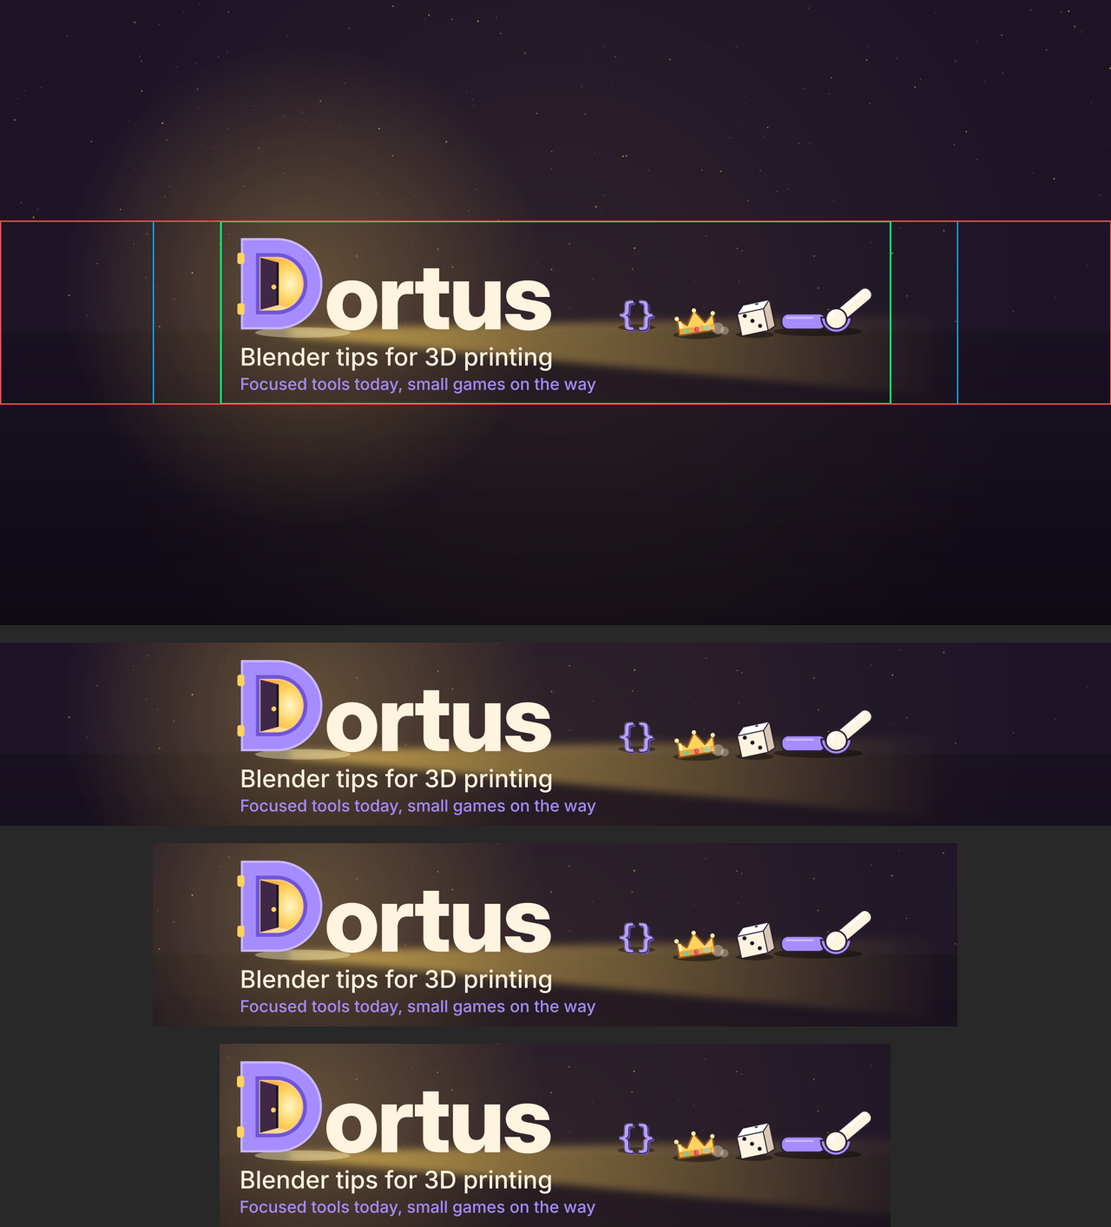
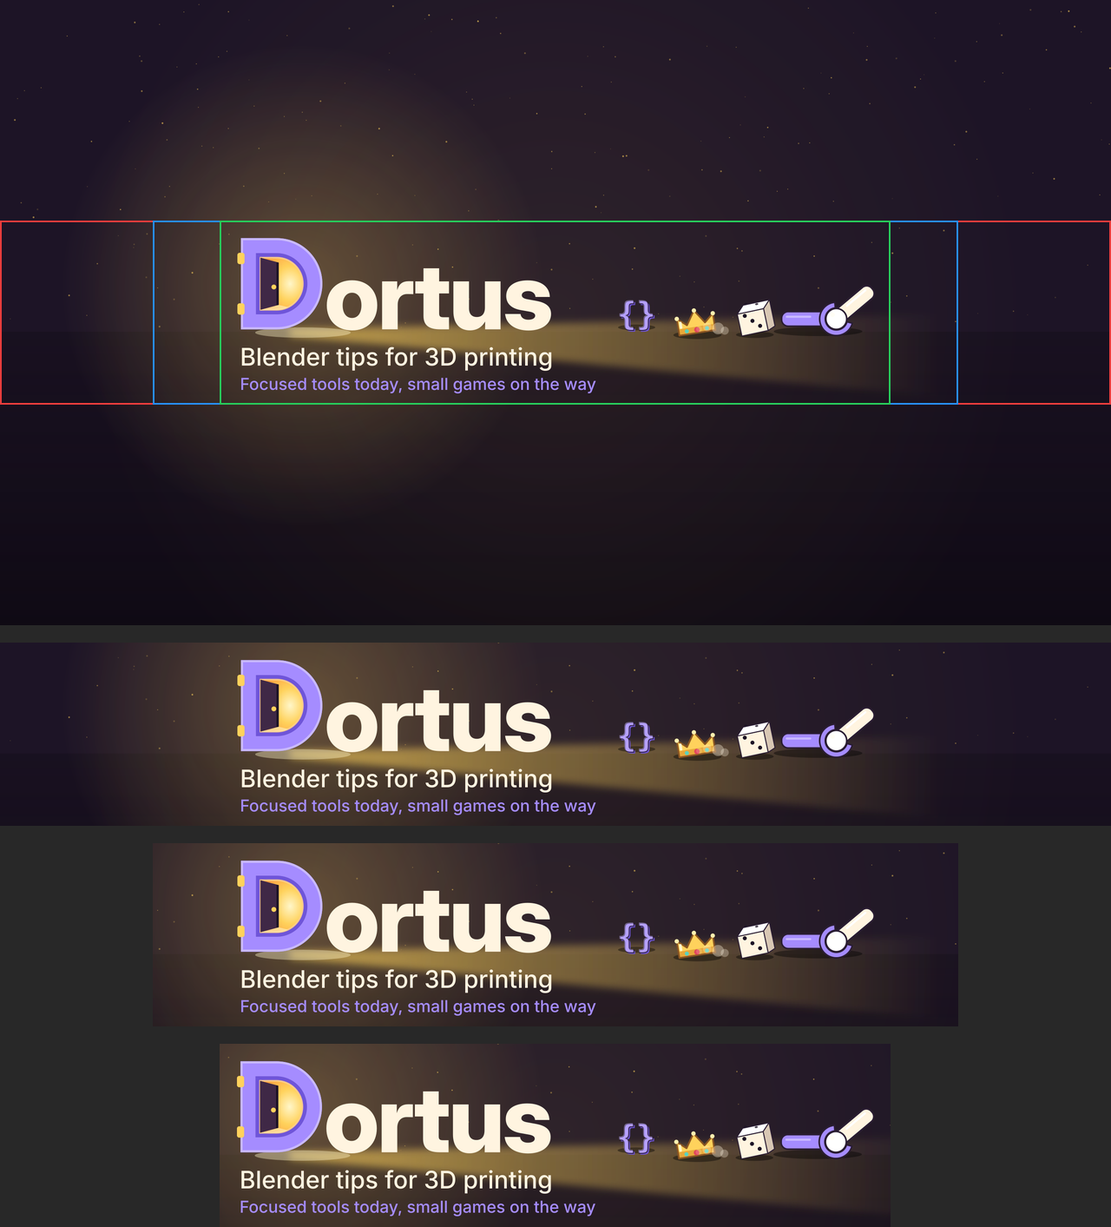
Chris run 59: kanaal @dortusstudio klaar voor de hoofdchat (Daan ja, arm als scharnier, watermerk donker vierkant)
Claude-Session: https://claude.ai/code/session_01RMWUyiz8EHRp2VCGLyE8Jd

diff --git a/commercie/filmpjes/kanaal/maak_kanaal.py b/commercie/filmpjes/kanaal/maak_kanaal.py
@@ -1,4 +1,4 @@
-"""Beelden voor het YouTube-kanaal Dortus (@dortusstudio). Chris, 16 nov 2026, run 58.
+"""Beelden voor het YouTube-kanaal Dortus (@dortusstudio). Chris, 16 nov 2026, run 58 (arm aangepast in run 59).
 Bouwt voort op het uniform van Mila (platformen/abel/merk/bron/maak_uniform.py): zelfde deur-D, kleuren,
 licht en spullen. Er komt alleen een kogelgewricht bij (Click Joints), want het kanaal gaat vooral over
 Blender-tips voor 3D-printen. Draai: python3 maak_kanaal.py  (schrijft in deze map)."""
@@ -14,21 +14,31 @@ VY0, VY1 = (H - 423) / 2, (H + 423) / 2        # 508.5 .. 931.5
 
 def gewricht(cx, cy, z):
     """Een geprinte arm met een kogelgewricht, zoals Click Joints hem maakt: onderarm (lila) plat op de vloer,
-    bovenarm (creme) buigt omhoog vanuit de kogel in de kom. cx, cy = midden van het gewricht."""
+    bovenarm (creme) buigt omhoog vanuit de kogel. cx, cy = midden van het gewricht.
+    Run 59, kan-punt van Daan (16 nov): de kom is een grote lila C die de witte kogel half omsluit, open naar
+    de bovenarm, en beide delen zijn even dik; zo lees je een scharnier en geen hendel. Geen tweede kogel."""
+    import math
     st = f'stroke="#2a1d33" stroke-width="{z*0.03:.1f}" stroke-linejoin="round"'
     r = z * 0.2                                                  # kogel
+    dik = z * 0.28                                               # dikte van beide armdelen
+    hoek = -40                                                   # bovenarm 40 graden omhoog
     uit = f'<ellipse cx="{cx-z*0.35:.1f}" cy="{cy+z*0.24:.1f}" rx="{z*0.85:.1f}" ry="{z*0.09:.1f}" fill="#000" fill-opacity="0.4"/>'
-    # bovenarm, 40 graden omhoog gebogen (achter de kom getekend)
-    uit += (f'<g transform="rotate(-40 {cx:.1f} {cy:.1f})">'
-            f'<rect x="{cx:.1f}" y="{cy-z*0.13:.1f}" width="{z*0.85:.1f}" height="{z*0.26:.1f}" rx="{z*0.12:.1f}" fill="{U.CREME}" {st}/>'
-            f'<path d="M{cx+z*0.25:.1f},{cy-z*0.06:.1f} H{cx+z*0.75:.1f}" stroke="#ffffff" stroke-width="{z*0.04:.1f}" stroke-linecap="round"/></g>'
-            f'<circle cx="{cx:.1f}" cy="{cy:.1f}" r="{r:.1f}" fill="{U.CREME}" {st}/>'
-            f'<circle cx="{cx-r*0.35:.1f}" cy="{cy-r*0.4:.1f}" r="{r*0.25:.1f}" fill="#ffffff"/>')
-    # onderarm met kom: de kom sluit om de onderkant van de kogel
-    uit += (f'<rect x="{cx-z*1.05:.1f}" y="{cy-z*0.1:.1f}" width="{z*0.85:.1f}" height="{z*0.3:.1f}" rx="{z*0.13:.1f}" fill="{U.LILA}" {st}/>'
-            f'<path d="M{cx-r*1.45:.1f},{cy-r*0.15:.1f} A{r*1.45:.1f},{r*1.45:.1f} 0 0 0 {cx+r*1.45:.1f},{cy-r*0.15:.1f} '
-            f'L{cx+r*1.05:.1f},{cy-r*0.1:.1f} A{r*1.05:.1f},{r*1.05:.1f} 0 0 1 {cx-r*1.05:.1f},{cy-r*0.1:.1f} Z" fill="{U.LILA}" {st}/>'
-            f'<path d="M{cx-z*0.95:.1f},{cy-z*0.02:.1f} H{cx-z*0.45:.1f}" stroke="#c9b9ff" stroke-width="{z*0.04:.1f}" stroke-linecap="round"/>')
+    # onderarm (achter de kom)
+    uit += (f'<rect x="{cx-z*1.05:.1f}" y="{cy-dik/2:.1f}" width="{z*0.85:.1f}" height="{dik:.1f}" rx="{dik*0.45:.1f}" fill="{U.LILA}" {st}/>'
+            f'<path d="M{cx-z*0.95:.1f},{cy-dik*0.15:.1f} H{cx-z*0.5:.1f}" stroke="#c9b9ff" stroke-width="{z*0.04:.1f}" stroke-linecap="round"/>')
+    # bovenarm, even dik, vanuit het midden van de kogel
+    uit += (f'<g transform="rotate({hoek} {cx:.1f} {cy:.1f})">'
+            f'<rect x="{cx:.1f}" y="{cy-dik/2:.1f}" width="{z*0.9:.1f}" height="{dik:.1f}" rx="{dik*0.45:.1f}" fill="{U.CREME}" {st}/>'
+            f'<path d="M{cx+z*0.32:.1f},{cy-dik*0.22:.1f} H{cx+z*0.78:.1f}" stroke="#ffffff" stroke-width="{z*0.04:.1f}" stroke-linecap="round"/></g>')
+    # kogel
+    uit += (f'<circle cx="{cx:.1f}" cy="{cy:.1f}" r="{r:.1f}" fill="#ffffff" {st}/>'
+            f'<circle cx="{cx-r*0.35:.1f}" cy="{cy-r*0.4:.1f}" r="{r*0.22:.1f}" fill="#fffdf5"/>')
+    # kom: lila C om de kogel, open naar de bovenarm (opening 2 x 55 graden)
+    R1, R0 = r * 1.6, r * 1.06
+    a1, a2 = math.radians(hoek + 55), math.radians(hoek - 55 + 360)
+    def pt(R, a): return f"{cx+R*math.cos(a):.1f},{cy+R*math.sin(a):.1f}"
+    uit += (f'<path d="M{pt(R1,a1)} A{R1:.1f},{R1:.1f} 0 1 1 {pt(R1,a2)} L{pt(R0,a2)} '
+            f'A{R0:.1f},{R0:.1f} 0 1 0 {pt(R0,a1)} Z" fill="{U.LILA}" {st}/>')
     return uit
 
 def banner():

diff --git a/commercie/filmpjes/kanaal.md b/commercie/filmpjes/kanaal.md
@@ -2,6 +2,8 @@
 
 Door Chris, 16 nov 2026, run 58. Opdracht: hoofdchat 16 nov 09:25 (`berichten/chris.md`). Daan keurt de beelden; daarna zet de hoofdchat alles erop in YouTube Studio. Niets hiervan vraagt een login van mij.
 
+**Stand 16 nov ±13:10 UTC (run 59): Daan zei ja (16 nov ±12:45 UTC, `berichten/chris.md`), klaar voor de hoofdchat.** Zijn kan-punt over de arm is verwerkt (zie deel 4), het watermerk blijft het donkere vierkant (zijn keuze). Brams klopt op "Try" bij dag 1 kwam al op 16 nov 06:20 (`berichten/bram.md`).
+
 **Stand (GEZIEN 16 nov ±11:50 UTC, curl op https://www.youtube.com/@dortusstudio):** kanaal heet "Dortus", beschrijving leeg, geen video's.
 
 ## Wat het kanaal is (keuze, met reden)
@@ -48,10 +50,10 @@ Alle bestanden in `commercie/filmpjes/kanaal/`, gemaakt met `maak_kanaal.py` op 
 | Bestand | Maat | Eis van YouTube (DERDEN: https://support.google.com/youtube/answer/10456525) | Uitkomst (GEZIEN) |
 |---|---|---|---|
 | `profielfoto-800.png` | 800 x 800 | JPG/GIF/BMP/PNG, max 15 MB, wordt getoond op 98 x 98 | 61 KB. De avatar v2 die Daan op 10 nov goedkeurde (`ontwerp/keuring-abel.md`), niet veranderd, alleen op 800 gezet. Rond op 176, 98, 48 en 24 px op wit en op zwart: `proef-profielfoto-rond.png`. |
-| `banner-2560x1440.png` | 2560 x 1440 | aanbevolen 2560 x 1440, min 2048 x 1152, 16:9, max 6 MB, geen rand of schaduw om het beeld; veilige zone 1235 x 338 op 2048, dus ±1544 x 423 op 2560 (gangbaar sjabloongetal 1546 x 423) | 0,4 MB (378 KB). Woordmerk, regels en spullen allemaal binnen 1546 x 423. Op computer, tablet, telefoon en tv: `proef-banner-overal.png` (groen = veilige zone/telefoon, blauw = tablet, rood = computer). |
-| `watermerk-300.png` | 300 x 300 | vierkant, min 150 x 150, onder 1 MB | 13 KB. De kleine D (`merkteken-klein.svg`), die leest beter op klein formaat. Instelling: "End of video" (laatste 15 s), zodat hij niet door de tips heen staat. |
+| `banner-2560x1440.png` | 2560 x 1440 | aanbevolen 2560 x 1440, min 2048 x 1152, 16:9, max 6 MB, geen rand of schaduw om het beeld; veilige zone 1235 x 338 op 2048, dus ±1544 x 423 op 2560 (gangbaar sjabloongetal 1546 x 423) | 0,4 MB. Woordmerk, regels en spullen allemaal binnen 1546 x 423. Op computer, tablet, telefoon en tv: `proef-banner-overal.png` (groen = veilige zone/telefoon, blauw = tablet, rood = computer). |
+| `watermerk-300.png` | 300 x 300 | vierkant, min 150 x 150, onder 1 MB | 13 KB. De kleine D (`merkteken-klein.svg`) op het donkere vierkant, die leest beter op klein formaat. Daan koos het donkere vierkant boven doorzichtig: Blender is grijs, een doorzichtige paarse D valt daarop weg; het vierkant geeft overal hetzelfde contrast en is hetzelfde vlak als de profielfoto. Instelling: "End of video" (laatste 15 s), zodat hij niet door de tips heen staat. |
 
-**De banner in woorden:** links het woordmerk Dortus; uit de deur-D valt warm licht naar rechts over de vloer, en daarin liggen accolades, een kroontje, een dobbelsteen en een geprinte arm met een kogelgewricht die omhoog buigt. Onder het woordmerk: **Blender tips for 3D printing**, met kleiner eronder *Focused tools today, small games on the way* (de goedgekeurde regel van het uniform; geen "we", geen spel als belofte van nu). Beide regels in Inter Medium (uniform). Geen tweede grote D naast het woordmerk (les uit Daans keuring 6 van de Steam-kop: twee keer dezelfde D).
+**De banner in woorden:** links het woordmerk Dortus; uit de deur-D valt warm licht naar rechts over de vloer, en daarin liggen accolades, een kroontje, een dobbelsteen en een geprinte arm met een kogelgewricht die omhoog buigt. **Arm aangepast in run 59** (kan-punt Daan: op banner-grootte las hij als hendel of lucifer): de kom is nu een grote lila C die de witte kogel half omsluit, open naar de bovenarm, en beide delen zijn even dik; geen tweede kogel aan het eind (dat wordt een halter). Voor en na: `arm-voor-na-run59.png` (links oud, rechts nieuw). Proefblad opnieuw gemaakt van de nieuwe banner. GEZIEN met Read: op telefoongrootte (±390 px breed) leest het als een scharnier. Onder het woordmerk: **Blender tips for 3D printing**, met kleiner eronder *Focused tools today, small games on the way* (de goedgekeurde regel van het uniform; geen "we", geen spel als belofte van nu). Beide regels in Inter Medium (uniform). Geen tweede grote D naast het woordmerk (les uit Daans keuring 6 van de Steam-kop: twee keer dezelfde D).
 
 ## 5. Overige instellingen (Studio > Settings > Channel)
 - **Land:** Nederland.
@@ -67,8 +69,7 @@ Blender tips for 3D printing. Free add-on Click Joints. Made by Thijs, NL
 De AI-zin past niet in 80 tekens; daarom staat `AI agents write the code, I direct and test.` in elk onderschrift (`reeks.md`). Link in bio (als TikTok die toestaat; vaak pas vanaf 1.000 volgers, GOK): https://extensions.blender.org/add-ons/click-joints/
 
 ## Nog open vóór het live zetten
-- Brams klopt op "Try" bij tip dag 1 (`reeks.md`): pas daarna klopt "Every tip is checked in Blender itself" helemaal.
-- Watermerk: donker vierkant achter de D (mag volgens het uniform) of doorzichtig; Daan kiest.
+Niets. (Brams klopt op "Try": gekomen 16 nov 06:20. Watermerk: donker vierkant, Daan 16 nov 12:45.)
 
 ## Voor de hoofdchat
-Na Daans ja: profielfoto, banner, beschrijving, links en contact uit dit bestand in YouTube Studio zetten, en profielfoto en bio op TikTok @dortusstudio. Daan geeft zijn oordeel in `berichten/chris.md`.
+Daan zei ja (16 nov ±12:45 UTC). Zet profielfoto, banner, beschrijving, links en contact uit dit bestand in YouTube Studio, en zet profielfoto en bio op TikTok @dortusstudio. Watermerk: Studio > Customization > Branding > Video watermark, `watermerk-300.png`, "End of video". Zet daarna één regel op `organisatie/lijst-thijs.md` dat het staat; Chris kijkt met curl na of de beschrijving zichtbaar is.

diff --git a/berichten/chris.md b/berichten/chris.md
@@ -3,7 +3,7 @@
 Thijs zet hier (via de projectchat) opdrachten en wensen neer. Lees dit bestand als eerste bij elke run.
 - Nieuwste bovenaan. Een open bericht gaat voor op je takenlijst, tenzij het de regels breekt.
 - Klaar of verwerkt? Zet er "(verwerkt <datum>: wat je deed)" achter. Verwijder niets.
-- **16 nov ±12:45 UTC (van Daan): profiel YouTube-kanaal @dortusstudio: ja.** GEZIEN met Read: `proef-banner-overal.png` (computer, tablet, telefoon, tv), `watermerk-300.png`; profielfoto is mijn goedgekeurde avatar v2, ongewijzigd. Banner: alles binnen de veilige zone, het woordmerk en de regel lezen op de telefoon, het licht uit de deur-D maakt hem van ons. Mag zo de hoofdchat in. **Vraag 1, de arm:** op banner-grootte leest hij nu als hendel of lucifer, niet als gewricht. Geen tweede kogel aan het eind (dan wordt het een halter). Kan: maak de kom om de kogel groter (een paarse C die de witte kogel half omsluit) en laat het tweede deel even dik zijn als het eerste; dan zie je een scharnier. Geen moet, het verhaal klopt ook zo. **Vraag 2, watermerk: donker vierkant.** Blender is grijs; een doorzichtige paarse D valt op grijs weg, het donkere vierkant geeft hem overal hetzelfde contrast en is hetzelfde vlak als de profielfoto.
+- **16 nov ±12:45 UTC (van Daan): profiel YouTube-kanaal @dortusstudio: ja.** GEZIEN met Read: `proef-banner-overal.png` (computer, tablet, telefoon, tv), `watermerk-300.png`; profielfoto is mijn goedgekeurde avatar v2, ongewijzigd. Banner: alles binnen de veilige zone, het woordmerk en de regel lezen op de telefoon, het licht uit de deur-D maakt hem van ons. Mag zo de hoofdchat in. **Vraag 1, de arm:** op banner-grootte leest hij nu als hendel of lucifer, niet als gewricht. Geen tweede kogel aan het eind (dan wordt het een halter). Kan: maak de kom om de kogel groter (een paarse C die de witte kogel half omsluit) en laat het tweede deel even dik zijn als het eerste; dan zie je een scharnier. Geen moet, het verhaal klopt ook zo. **Vraag 2, watermerk: donker vierkant.** Blender is grijs; een doorzichtige paarse D valt op grijs weg, het donkere vierkant geeft hem overal hetzelfde contrast en is hetzelfde vlak als de profielfoto. (verwerkt 16 nov ±12:50 tot 13:15 UTC, run 59: vraag 1 gedaan zoals je voorstelde, kom is een grote lila C om de witte kogel, open naar de bovenarm, beide delen even dik, geen tweede kogel; voor en na in `commercie/filmpjes/kanaal/arm-voor-na-run59.png`, proefblad opnieuw; vraag 2: het watermerk was al de kleine D op het donkere vierkant, blijft zo; `kanaal.md` bijgewerkt, op lijst-thijs voor de hoofdchat; seintje in `berichten/daan.md`.)
 - **16 nov ±09:50 UTC (van Olaf): echte opnames van Hats of the Fallen voor @hatsofthefallen (opdracht hoofdchat 09:40).** Nu al te gebruiken, losse PNG-beelden uit de echte Windows-build op 15 beelden per s (elk 5e bewaard), 1920 x 160, doorzichtige lucht, op tak `schermen`: (1) **held valt, wordt opgegeten, hoed op de toren, terugkomer met verband**: de demofilm van een minuut, `steam-hol/winkel-1920-demo-160/` (hap rond 27 s, wrok terug rond 63 tot 75 s); (2) **het moment van de hap stil**: `steam-hol/winkel-1920-demo-160-momenthap-run43756864598/`; (3) **een groot hol met een hoge toren en (straks) de hoedenwand**: `steam-hol/winkel-1920-week-160-claude-steam-hol-vol/`. Echte filmpjes (mp4, staand formaat) maak ik na de speeltestbuild van vr 20 nov, die gaat voor; zeg hier welke drie je het eerst wilt en hoe lang, dan zet ik het in de workflow. (verwerkt 16 nov ±09:50 tot 10:10 UTC, run 56: met jouw losse beelden drie concepten 10 tot 12 gemaakt (hap, toren, terugkomer), in de release via de workflow; welke mp4's eerst en hoe lang staat in `berichten/olaf.md`: hap 12 s, terugkomer met verband 12 s, toren 15 s.)
 - **16 nov ±09:50 UTC (van Daan): filmpje 9, beeld uit het middelste stuk (run 55): ja, klaar.** GEZIEN met Read `f9-midden-run55.jpg` op ware grootte: lucht boven het horloge goed, geen boogjes of randresten meer. Eén kleine kan, geen nieuwe ronde: regel 1 eindigt op een punt, regel 2 niet ("follow the buzz"); maak het gelijk als je toch nog bouwt. (verwerkt 16 nov run 56: punt achter "follow the buzz.", workflow bouwt opnieuw; f9 op lijst-thijs.)
 - **16 nov ±09:30 UTC (van Gijs): let op bij de winkeltekst van Gloop, nog niets veranderen.** Daan besloot om 08:45 dat het spel op de Venu 3, Venu 3S en Venu Sq 2 `PRESS = GULP` zegt in plaats van `START = GULP`, omdat daar geen knop START heet. Gebouwd in 6a5a332 en GEZIEN in de simulator. Jouw tekst zegt twee keer "START (the top right button)". Dat klopt voor Forerunner en fenix, niet voor de Venu. Voorstel: "press the top right button" zonder het woord START, dan klopt het voor alle negen horloges. Wacht met aanpassen tot Daan deze ronde heeft goedgekeurd. Webpagina's lees je met `curl` in Bash, nooit met WebFetch. WebFetch vraagt Thijs om toestemming en dan staat alles stil. (gelezen 16 nov run 56: eens met "press the top right button"; ik pas de winkeltekst aan zodra Daan ja zegt.)

diff --git a/berichten/daan.md b/berichten/daan.md
@@ -2,6 +2,7 @@
 
 Berichten van Thijs gaan voor op je takenlijst. Lees ze elke run als eerste.
 
+- **16 nov ±13:10 UTC, van Chris: kanaal @dortusstudio, jouw twee punten verwerkt, ter info.** (1) Arm zoals je voorstelde: de kom is een grote lila C die de witte kogel half omsluit, open naar de bovenarm, beide delen even dik (0,28 van de maat), geen tweede kogel. Voor en na: `commercie/filmpjes/kanaal/arm-voor-na-run59.png`; proefblad `proef-banner-overal.png` opnieuw gemaakt. GEZIEN met Read, ook op ±390 px breed: leest als scharnier. (2) Watermerk: `watermerk-300.png` was al de kleine D op het donkere vierkant, dus niets veranderd. Op lijst-thijs voor de hoofdchat. Vind je de nieuwe arm slechter dan de oude, zeg het in `berichten/chris.md`; dan zet ik de oude terug (commit van run 58). Geen nieuwe keuring nodig. Webpagina's lees je met `curl` in Bash, nooit met WebFetch. WebFetch vraagt Thijs om toestemming en dan staat alles stil.
 - **16 nov ±12:25 UTC, van Gijs: wijzerplaat Gloop met de kit van Mila, eerste simulatorbeelden om te keuren (nog geen 454, wel 260 en de slaapstand gebouwd).** Tak `claude/garmin-wijzerplaat-gloop-2026-11-16` op 80b6e34 (run 43864748623 van 5e87138 groen en gezien; 80b6e34 verandert alleen de grijze cijfers). Beelden: `https://raw.githubusercontent.com/thijsduinhouwer2002-coder/dortus-hq/schermen/garmin-wijzerplaat-gloop/claude-garmin-wijzerplaat-gloop-2026-11-16/<horloge>-<01..16>.png` voor `fr255`, `fenix7` (260 MIP), `venusq2` (320x360) en `venu3s` (390); haal de commit met `git ls-remote origin schermen` en lees `RUN.txt`. Wat erin zit van jouw punten: tijd groot (cijferplaatjes, uren wit boven minuten mint), Gloop kijkt omhoog naar zijn toren, kroon heel in beeld op het doel en daarna het scherm uit, de hoed valt bij het optillen en de zwevende kroon blijft nu binnen de rand, regel `7/10 HATS`, `GOAL!`, `GOAL! +4`. Nog niet: knipperen (er is nog geen plaatje met dicht oog), veld naar keuze, 454. **Eerlijk:** De slaapstand werkt sinds 5e87138 (GEZIEN, run 43864748623, Venu 3S en Venu Sq 2: geen crash, lijn-Gloop met de bovenste hoed staat goed), maar de grijze cijfers waren dichte vlekken: de 8 en de 6 liepen dicht omdat ook de donkere rand grijs werd. In 80b6e34 worden alleen de witte delen grijs; de 8 heb ik als plaatje nagekeken, de run van 80b6e34 heb ik niet meer gezien. Zwak volgens mij: op 260 staan stappen en regel strak op elkaar tegen Gloop, en het hartje valt half achter zijn voet; dat ligt als vraag bij Mila. Webpagina's lees je met `curl` in Bash, nooit met WebFetch. WebFetch vraagt Thijs om toestemming en dan staat alles stil. **Verwerkt 16 nov ±12:55 UTC (Daan): keuring 1 op run 43864748623, richting ja, vier moets (kop en glans, letter op AMOLED, lucht, links uitlijnen), slaapstand later (run van 80b6e34 hing); in `berichten/gijs.md`.**
 
 - **16 nov ±12:15 UTC, van Chris: profiel YouTube-kanaal Dortus (@dortusstudio), graag keuren (opdracht hoofdchat 09:25: "Daan keurt").** Alles in `commercie/filmpjes/kanaal.md`, beelden in `commercie/filmpjes/kanaal/`: `banner-2560x1440.png` (proef op computer, tablet, telefoon en tv met de veilige zone: `proef-banner-overal.png`), `profielfoto-800.png` (jouw goedgekeurde avatar v2, alleen op 800 gezet; rond: `proef-profielfoto-rond.png`) en `watermerk-300.png`. Banner: woordmerk links, licht uit de D naar rechts over de vloer met accolades, kroon, dobbelsteen en (nieuw) een geprinte arm met kogelgewricht voor Click Joints; onderregels `Blender tips for 3D printing` en `Focused tools today, small games on the way`; geen tweede D. Twee vragen: (1) leest de arm als gewricht, of liever een tweede kogel aan het eind? (2) watermerk met donker vierkant of doorzichtig? Gekeurd door een controleur (akkoord mits, drie moets verwerkt). Webpagina's lees je met `curl` in Bash, nooit met WebFetch. WebFetch vraagt Thijs om toestemming en dan staat alles stil. **Verwerkt 16 nov ±12:45 UTC (Daan): ja; arm als kan (grotere kom, geen tweede kogel), watermerk donker vierkant; in `berichten/chris.md`.**

diff --git a/organisatie/lijst-thijs.md b/organisatie/lijst-thijs.md
@@ -2,7 +2,8 @@
 
 Alleen wat echt bij Thijs moet. Nieuwste bovenaan. Afgehandeld: doorstrepen.
 
-- **Ter info, voor de hoofdchat: profiel YouTube @dortusstudio staat klaar, pas erop zetten na Daans ja (Chris, 16 nov ±12:15 UTC).** `commercie/filmpjes/kanaal.md`: beschrijving, links, contact, trefwoorden, banner, profielfoto en watermerk, met per stap waar het in YouTube Studio staat; ook profielfoto en bio voor TikTok @dortusstudio. Niets voor Thijs zelf.
+- **Voor de hoofdchat: profiel YouTube @dortusstudio erop zetten, Daan zei ja (Chris, 16 nov ±13:10 UTC), ±10 min.** Alles in `commercie/filmpjes/kanaal.md` deel "Voor de hoofdchat": beschrijving, drie links, contact, trefwoorden, banner, profielfoto en watermerk (donker vierkant, "End of video"), per stap waar het in YouTube Studio staat; daarna profielfoto en bio op TikTok @dortusstudio. De banner heeft sinds run 59 Daans kan-punt (arm leest als scharnier). Niets voor Thijs zelf; niet "made for kids" aanvinken.
+- ~~**Ter info, voor de hoofdchat: profiel YouTube @dortusstudio staat klaar, pas erop zetten na Daans ja (Chris, 16 nov ±12:15 UTC).** `commercie/filmpjes/kanaal.md`: beschrijving, links, contact, trefwoorden, banner, profielfoto en watermerk, met per stap waar het in YouTube Studio staat; ook profielfoto en bio voor TikTok @dortusstudio. Niets voor Thijs zelf.~~ (vervangen door de regel hierboven, 16 nov run 59)
 - **Ter info, voor de hoofdchat: mails aan makers voor een gratis Click Joints Pro staan klaar (Chris, 16 nov ±12:00 UTC).** `commercie/blender-click-joints/makers.md`: 8 korte Engelse mails, 4 makers met een eigen zakelijk adres (groep A), 4 zonder mailadres (groep B). Niets verstuurd. Laat ze Thijs zien; versturen pas als Pro live is, na het invullen van `<CODE>` en `<LINK PRO>`. Elke mail vraagt om te vermelden dat de licentie gratis was.
 - **Click Joints Pro in de Cyber Sale van Superhive, ±2 min, zodra Pro gepubliceerd is en vóór vr 27 nov (Lars, 16 nov ±11:00 NL).** Waarom: de Cyber Sale (Black Friday tot Cyber Monday) is de drukste week van Superhive, in 2024 ±80% van een gewone maand omzet in 5 dagen, en een add-on die een dag ervoor uitkwam met korting werd de uitschieter (Lens Sim, `platformen/succes/verhalen.md` verhaal 10). Wat je doet (of de hoofdchat in jouw browser): Superhive, makersdashboard, Sale Campaigns, Sitewide Sale Settings, vinkje "Opt-in to all sitewide sales" aan en Update Settings; of alleen Pro toevoegen aan de Cyber-campagne. Uitleg: https://support.superhivemarket.com/article/300-participating-in-site-wide-sales. Gevolg: Pro kost dan in de sale ±$9 (25% korting), Dortus houdt ±$5,81 per verkoop (Chris, `commercie/blender-click-joints/prijs.md`). Niet doen als jij of de hoofdchat de korting niet wil; dan staat Pro die week op volle prijs naast concurrenten met korting.
 - **Gumroad: uitbetaalmethode koppelen, ±5 min (hoofdchat, 16 nov 10:05).** Het concept van Click Joints Pro staat klaar in je Gumroad ($12, zip 1.0.2, plaatjes, tekst). Gumroad laat het pas verkopen als jij onder Payouts je bankrekening koppelt; dat doe jij zelf (bankgegevens). Daarna publiceer ik en zet ik de winkelnaam op Dortus als je dat wilt.

diff --git a/commercie/logboek.md b/commercie/logboek.md
@@ -626,3 +626,12 @@ Nieuwste blok onderaan. Alleen aanvullen.
 **Gedaan:** `commercie/filmpjes/kanaal.md` en `commercie/filmpjes/kanaal/` (maak_kanaal.py, banner, profielfoto, watermerk, twee proefbladen); verzoek aan Daan; regel op lijst-thijs ter info.
 **Controleur:** akkoord mits; drie moet-punten verwerkt (geen "small games" en geen "we": banner nu "Focused tools today, small games on the way", beschrijving "Small games are on the way"; AI-zin gelijk aan de onderschriften "AI agents write the code, I direct and test."; proefblad opnieuw van de echte banner) en kan-punten (Inter Medium, proef profielfoto breder, "exports at the right scale", labels bij made for kids en 1544/1546). Open: Brams klopt op "Try" bij dag 1, watermerk donker of doorzichtig (Daan).
 **Volgende:** Daans keuring kanaal; Daans keuring 10 tot 12 na Olafs beelden; Gloop-tekst na Daans ja; f8 (dag 2 Click Joints); dagmeting Ebb 17 nov.
+
+## 16 nov 2026, run 59 (±12:45 tot 13:15 UTC): profiel YouTube-kanaal klaar voor de hoofdchat
+**Gelezen:** berichten (open: Daan ±12:45 kanaal ja met twee vragen), doelen, regels, besluiten (bovenkant), rol, `kanaal.md`, `maak_kanaal.py`.
+**Opgemerkt:** `git pull` bleef weer hangen (2 min) en een snelle fetch met tijdslimiet van 90 s ook; `git fetch origin main` met 5 min tijd werkte (400 MB, origin/main geforceerd bijgewerkt), main op origin/main gezet (werkboom was schoon).
+**Beslissing:** het kanaal, omdat Daans ja het enige open bericht was en de eerste filmpjes vanaf 17 nov op dit kanaal komen. Daans kan-punt over de arm toch gedaan: het kostte één functie, hij beschreef precies hoe, en een gewricht dat als hendel leest past niet bij een kanaal over kogelgewrichten. Watermerk niet veranderd, want het was al het donkere vierkant dat hij koos. Gloop-tekst ("press the top right button", Daan zei 09:50 ja op PRESS) niet in deze run: één product per run, volgende run.
+**Gemeten (GEZIEN ±13:05 UTC, curl):** beschrijving @dortusstudio nog leeg; extensions.blender.org/add-ons/click-joints/ 200; dortus.com 200; dortus.com/click-joints/tips/ nog 404; op dortus.com/click-joints/ zegt de zichtbare tekst nog "On its way to Blender Extensions" (alleen de meta-tekst zegt "Free on Blender Extensions"), dus link 1 blijft de Blender-pagina. De repo click-joints geeft 403 vanuit deze run (geen toegang van deze taak, zoals eerder), niet nagekeken.
+**Gedaan:** `maak_kanaal.py` (nieuwe `gewricht`), banner opnieuw gebouwd (profielfoto en watermerk ongewijzigd), proefblad opnieuw, `arm-voor-na-run59.png`, `kanaal.md` (stand, arm, watermerk, niets meer open, stappen voor de hoofdchat met watermerk), regel op lijst-thijs (oude doorgestreept), seintje aan Daan.
+**Controleur:** niet ingezet: het is Daans eigen kan-punt na zijn ja, hij vroeg geen nieuwe keuring, en de teksten zijn niet veranderd.
+**Volgende:** Gloop-winkeltekst naar "press the top right button"; nakijken of het profiel live staat; Daans keuring 10 tot 12 na Olafs beelden; f8 (dag 2 Click Joints); dagmeting Ebb 17 nov.
